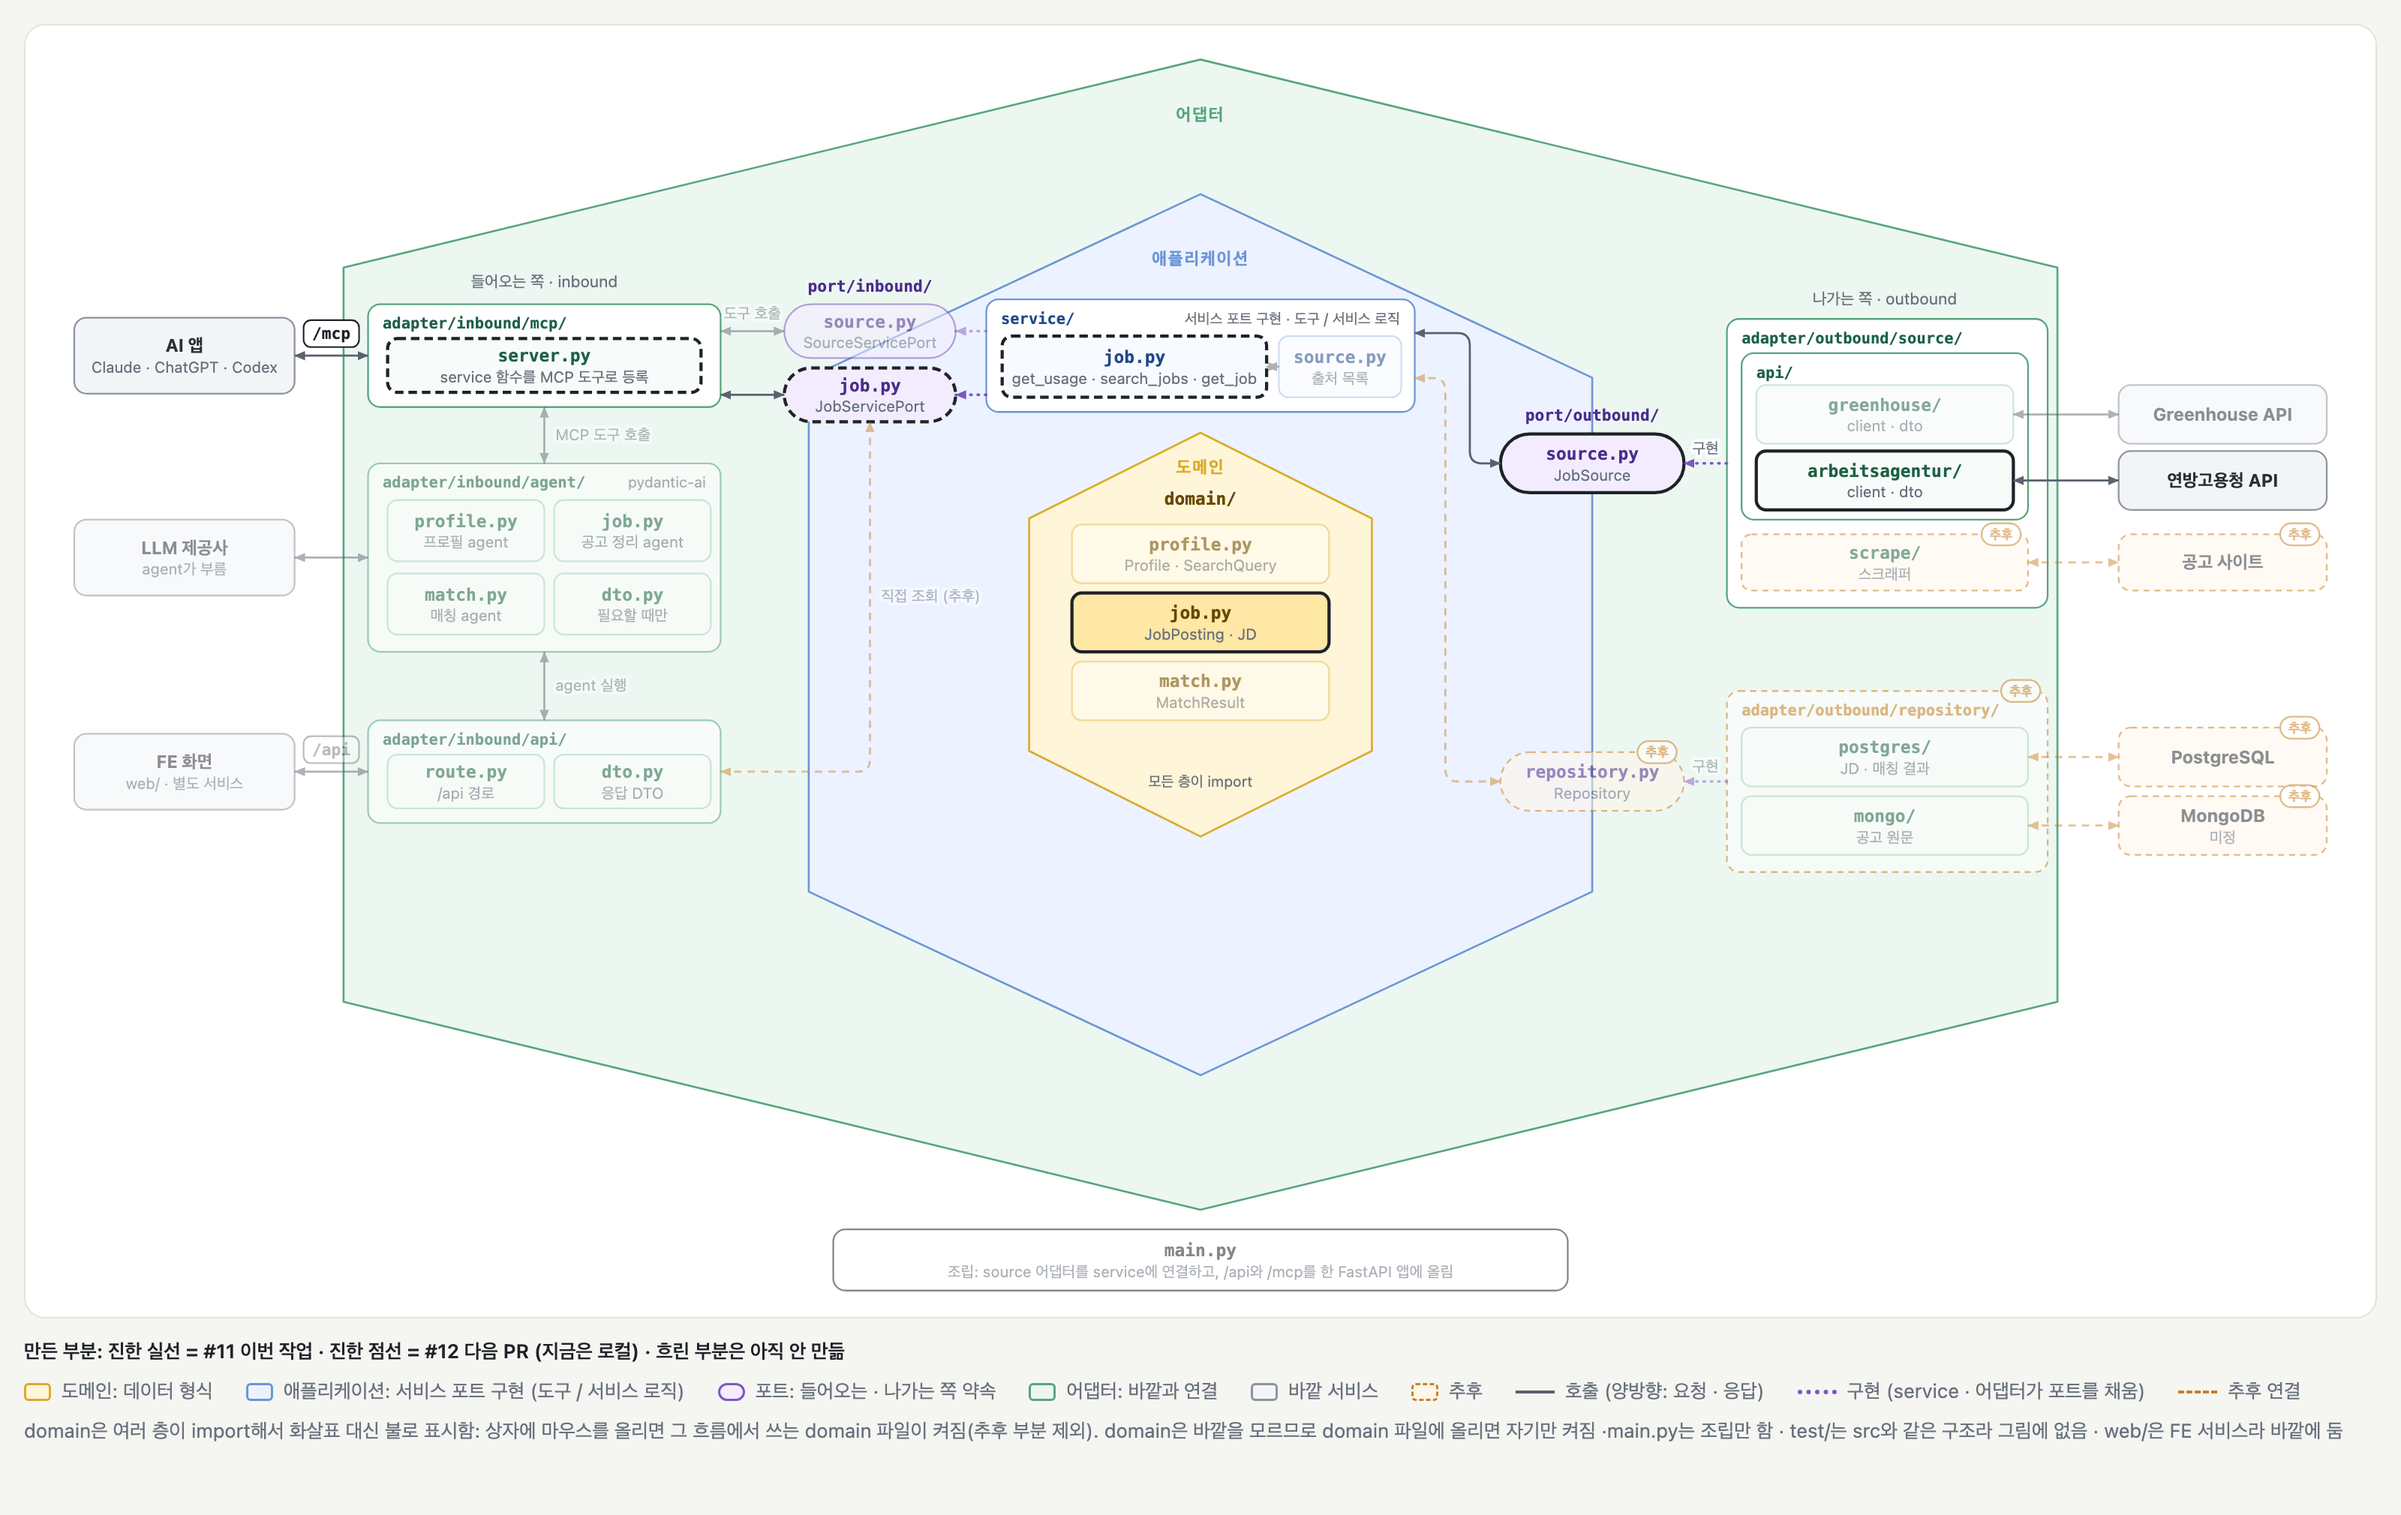
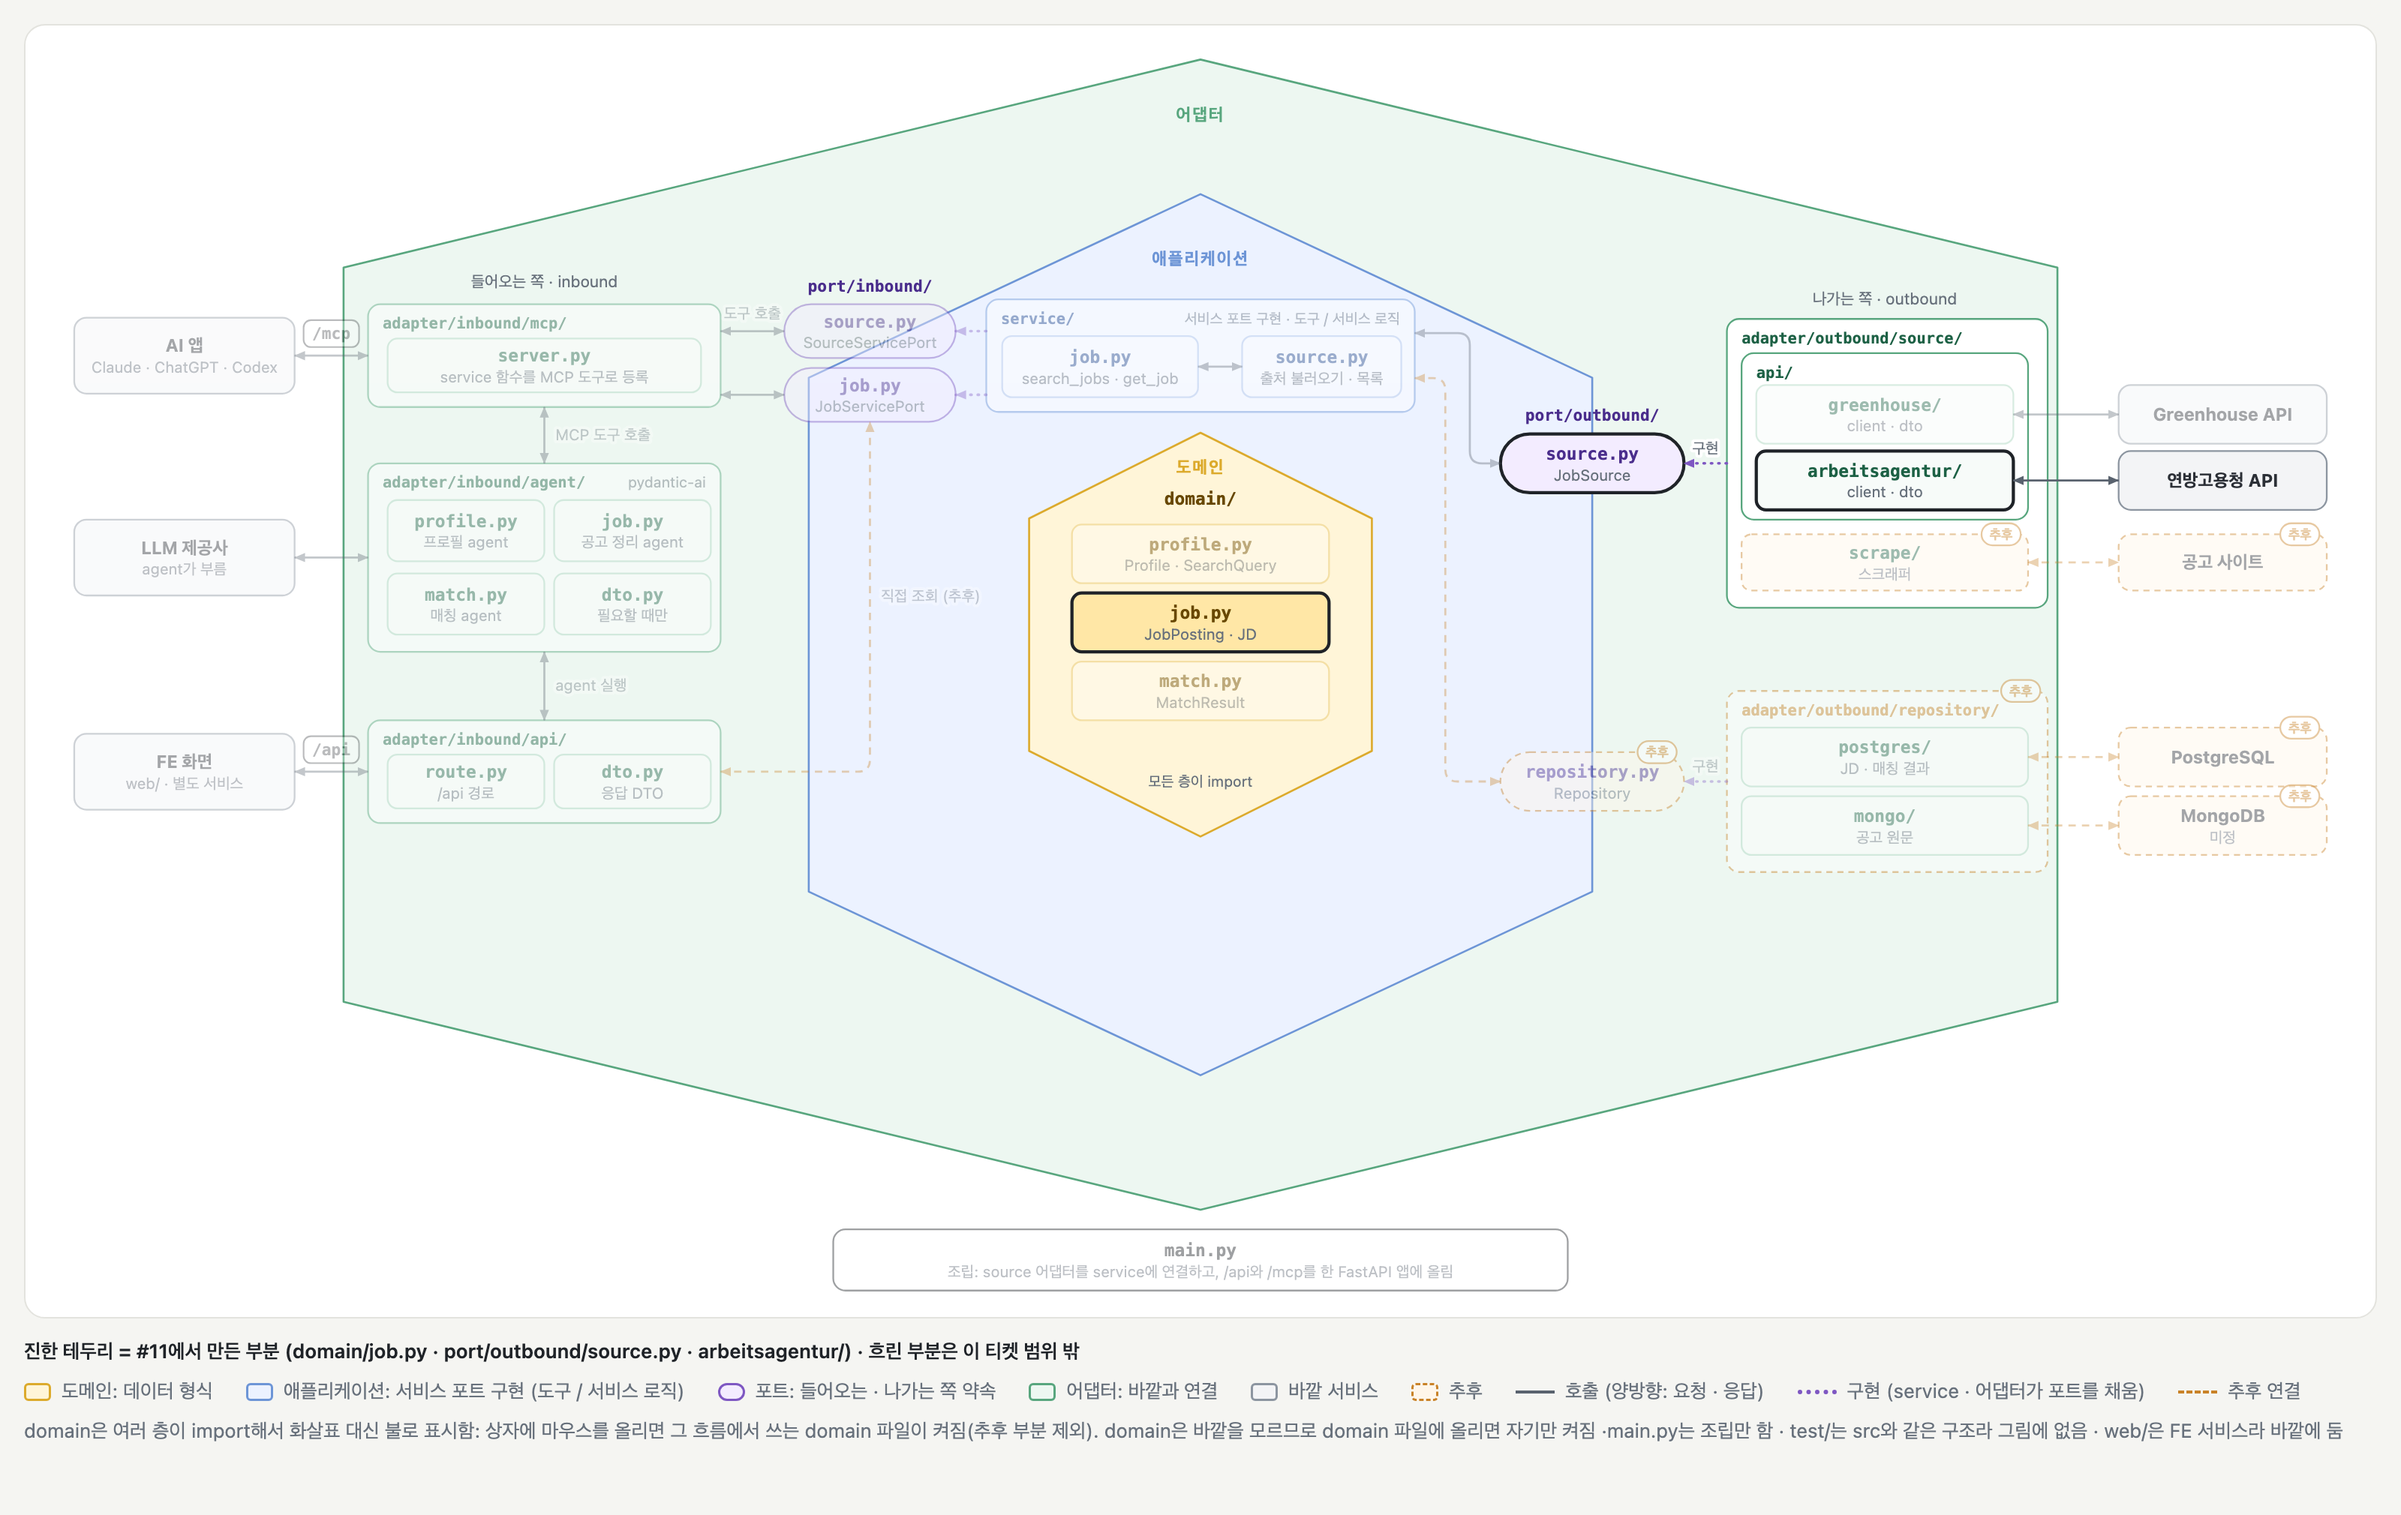
docs: ticket-11 문서에서 #12 내용 빼기
헥사고날 그림은 #11에서 만든 부분(domain/job.py · port/outbound/source.py ·
arbeitsagentur/)만 켜고, 만든 파일 표와 #12 관련 문장 · 할 일을 지움.
코멘트에서 옮긴 JobPosting 필드 · 단위 테스트 목적 · 추후 보완할 점은 그대로 둠.

Claude-Session: https://claude.ai/code/session_01MZWkBxJ9rtBGTPL4XY9m66

diff --git a/docs/be/ticket-11.md b/docs/be/ticket-11.md
@@ -1,7 +1,7 @@
 ---
 제목: "Arbeitsagentur 공고 출처 어댑터 (#11)"
 유형: "작업 메모"
-설명: "티켓 #11에서 만든 JobPosting · JobSource 포트 · 연방고용청 어댑터와, LLM이 도구를 부를 때 어떻게 동작하는지 정리합니다. 이 코드를 처음 읽거나 #12 작업을 시작하기 전에 읽으면 좋습니다."
+설명: "티켓 #11에서 만든 JobPosting · JobSource 포트 · 연방고용청 어댑터와, LLM이 도구를 부를 때 어떻게 동작하는지 정리합니다. 이 코드를 처음 읽을 때 보면 좋습니다."
 관련문서:
     - "../structure/be.md"
     - "../structure/llm.md"
@@ -22,9 +22,9 @@
 
 ### 전체 그림
 
-![헥사고날 폴더 구조 그림에서 만든 부분만 켠 상태: domain/job.py, port/outbound/source.py, adapter/outbound/source/api/arbeitsagentur/는 #11, adapter/inbound/mcp/server.py, port/inbound/job.py, service/job.py는 #12](../assets/be/arbeitsagentur-hexagon.png)
+![헥사고날 폴더 구조 그림에서 #11에서 만든 domain/job.py, port/outbound/source.py, adapter/outbound/source/api/arbeitsagentur/만 켠 상태](../assets/be/arbeitsagentur-hexagon.png)
 
-[BE 설계의 폴더 구조 그림](../structure/be.md)에서 만든 부분만 켠 상태입니다. 진한 실선은 #11에서 만든 것, 진한 점선은 #12에서 PR로 올릴 것(지금은 로컬)이고, 흐린 부분은 아직 만들지 않았습니다.
+[BE 설계의 폴더 구조 그림](../structure/be.md)에서 이 티켓에서 만든 부분만 켠 상태입니다. 진한 테두리가 만든 부분이고, 흐린 부분은 이 티켓 범위 밖입니다.
 
 ![호출 흐름: LLM이나 테스트가 get_usage로 검색 요청 DTO 형식을 받고, 그 형식대로 search_jobs를 부르고, 고른 공고를 get_job으로 가져오는 14단계](../assets/be/arbeitsagentur-call-flow.svg)
 
@@ -33,20 +33,6 @@
 1. **사용법 읽기 (1~4):** `get_usage()`가 서비스로 가고, 서비스가 어댑터의 `usage()`로 `ArbeitsagenturSearchRequestDTO`를 받아 JSON 스키마로 바꿔 돌려줍니다. LLM은 그 형식을 보고 `params`를 채웁니다.
 2. **검색 (5~9):** `search_jobs(params)`를 부르면 어댑터가 같은 요청 DTO로 검사하고, 키워드 × 위치 조합마다 API를 부른 뒤 중복을 빼고 `JobPosting` 목록(본문 없음)을 돌려줍니다.
 3. **본문 가져오기 (10~14):** LLM이 고른 공고를 `get_job(posting_id)`로 부르면, 본문까지 채운 `JobPosting` 하나가 옵니다.
-
-### 만든 것
-
-| 파일 | 하는 일 | 티켓 |
-| --- | --- | --- |
-| `domain/job.py` | `JobPosting`: 공고 하나 (source · id · company · title · location · url · description) | #11 |
-| `port/outbound/source.py` | `JobSource` 포트: `usage()` · `search(params)` · `fetch(posting_id)` | #11 |
-| `adapter/outbound/source/api/arbeitsagentur/dto.py` | 검색 요청 DTO(`ArbeitsagenturSearchRequestDTO`), 공고 한 건 DTO(`ArbeitsagenturJobDTO`)와 `to_posting()` | #11 |
-| `adapter/outbound/source/api/arbeitsagentur/client.py` | `ArbeitsagenturClient`: 연방고용청 API 호출 | #11 |
-| `test/adapter/outbound/source/api/arbeitsagentur/` | 단위 테스트 5개 | #11 |
-| `port/inbound/job.py`, `service/job.py` | `JobServicePort` · `JobService`: `get_usage` · `search_jobs` · `get_job` | #12 |
-| `adapter/inbound/mcp/server.py` | MCP 서버: 서비스 함수 3개를 읽기 전용 도구로 등록 | #12 |
-
-#12 부분은 #11을 LLM으로 확인하려고 먼저 만들었고, PR은 #12에서 따로 올립니다.
 
 ### `JobPosting` 필드
 
@@ -168,5 +154,4 @@ Claude Code에 MCP 서버를 붙여 확인한 결과입니다.
 
 - [ ] #11 PR: domain · 출구 포트 · 연방고용청 어댑터 · 단위 테스트 · `httpx2` 의존성
 - [ ] #11 티켓 본문을 지금 포트 모양(`usage()` · `search(params)`)에 맞추기
-- [ ] #12 PR: 입구 포트 · 서비스 · MCP 서버 · `fastmcp` 의존성
 - [ ] 실제 API를 부르는 계약 테스트와 정기 실행 티켓 만들기
